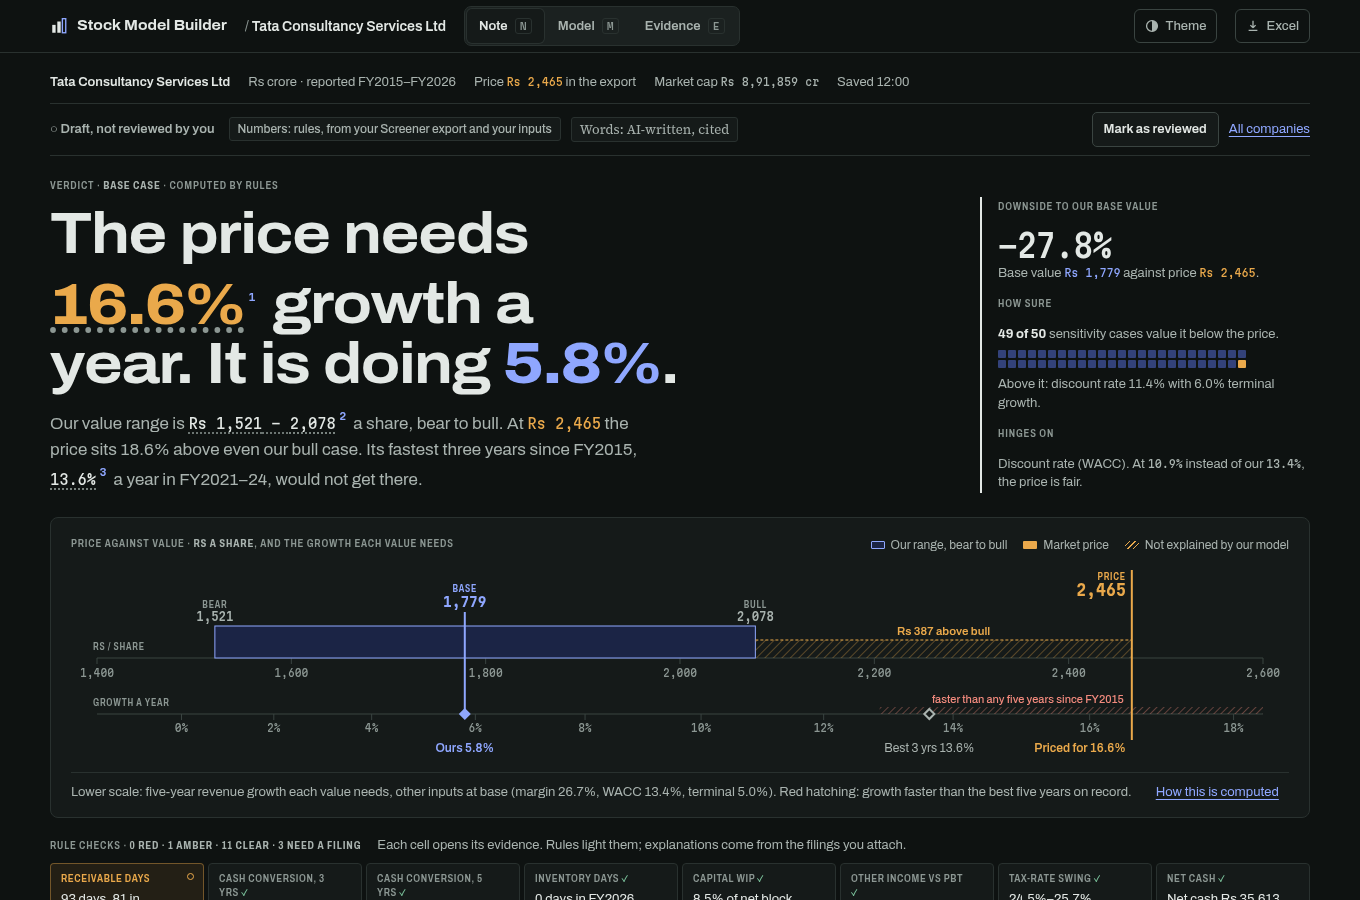
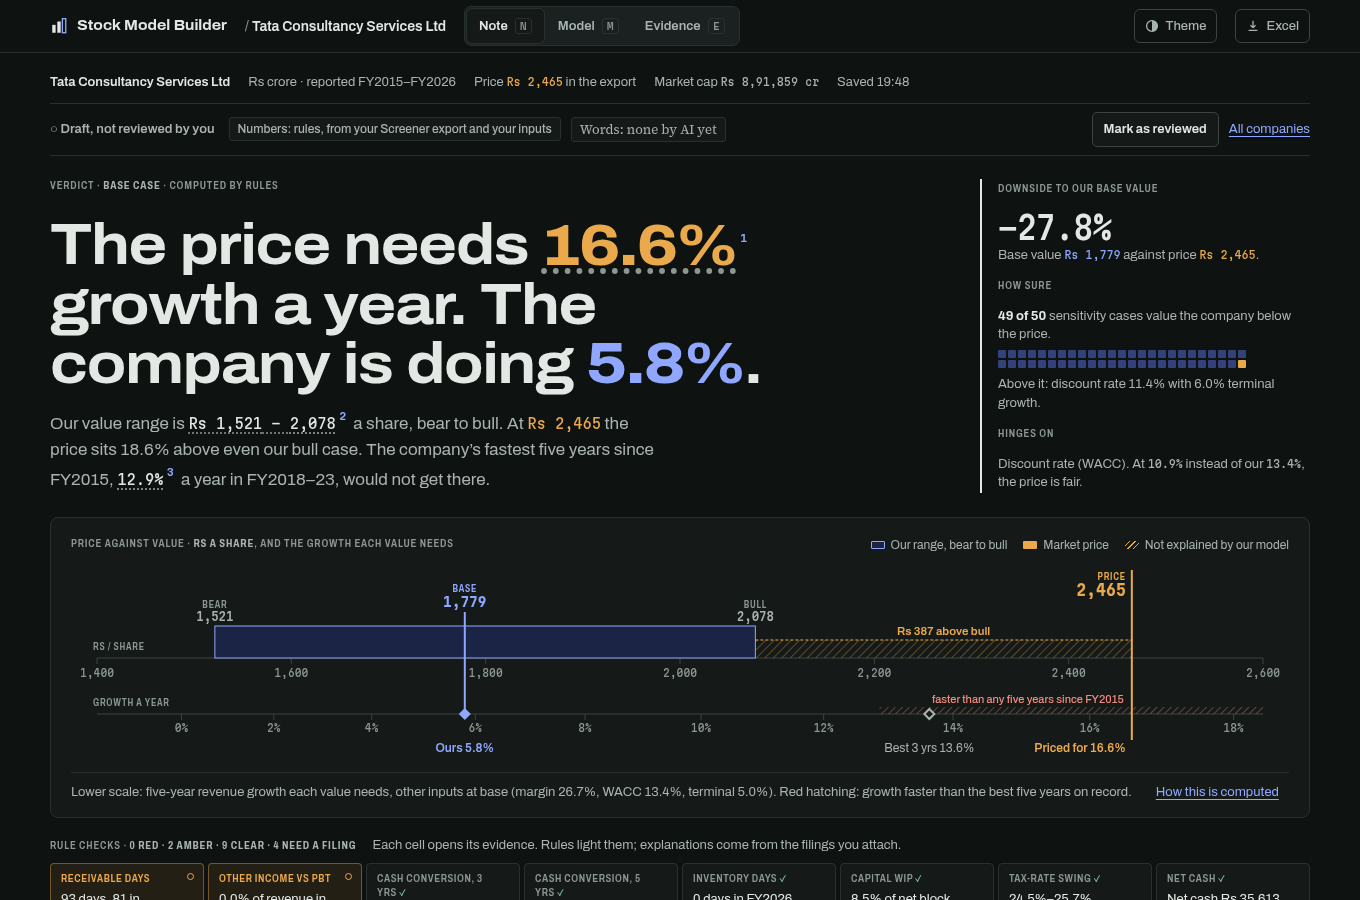
Refresh README screenshots and export label

diff --git a/web/src/App.tsx b/web/src/App.tsx
@@ -469,9 +469,9 @@ function Workspace({ parsed, doc, setDoc: setDocRaw, setDefaults, setParsed, onC
           </nav>
           <span className="spacer" />
           <ThemeButton />
-          <button type="button" className="tbtn" onClick={exportXlsx} disabled={!proj || exporting}>
+          <button type="button" className="tbtn" onClick={exportXlsx} disabled={!proj || exporting} aria-label={exporting ? 'Exporting to Excel' : 'Export to Excel'}>
             <svg viewBox="0 0 16 16" aria-hidden="true"><path d="M8 2v8m0 0L5 7m3 3 3-3M3 13h10" fill="none" stroke="currentColor" strokeWidth="1.5" /></svg>
-            <span className="t-l">{exporting ? 'Exporting…' : 'Excel'}</span><span className="sr">{exporting ? '' : ' export'}</span>
+            <span className="t-l">{exporting ? 'Exporting…' : 'Excel'}</span>
           </button>
         </div>
       </header>

diff --git a/README.md b/README.md
@@ -34,7 +34,7 @@ Numbers come from fixed rules. Words come from an AI command you choose, and eve
 - **AI-proposed mappings for leftover tags (optional):** with `LLM_CMD` set to any command that reads a prompt on stdin and prints the reply (no SDK, any provider), "Propose mappings" asks the model which statement line each unknown tag is. Rules then check every answer (the line exists, the unit is right, the line isn't already filled, the sign and size are plausible, totals such as expenses and total income still tie within 1%), and you approve or reject each one. An approved mapping is saved to `mappings.json` in the model library and the filing is re-read by rules; from then on every filing applies it with no AI call. Projecting and exporting never call the model. Without `LLM_CMD` the button is off and everything else works.
 - **Explain unusual years (optional, words only):** each flagged year has an Explain action. Attach that year's annual-report PDF and rules pick the few pages that mention exceptional or one-time items, the flagged line and the year (text read with the system `pdftotext`); the model answers in at most two sentences with a page and a quote, and the explanation is rejected unless that quote really occurs on that page. Without a report it can explain from the numbers only, labelled as such. Approving pins the note next to the flag, marked as AI-written; no number uses it.
 - **Annual-report notes (optional):** attach a year's annual-report PDF under Sources & proposals. For segment revenue, debt maturity, capex, contingent liabilities, related-party transactions, exceptional items, promoter pledge and the auditor's report, rules pick the most likely pages per topic (three; the auditor gets a slot for its signature page), and the app shows the pages and the exact prompt size before anything is sent. The model returns each figure with its page and a quote; rules check that every quote occurs on its page and contains its number, convert the unit (lakh, million...) to Rs crore (pledge is a percentage from 0 to 100, a quoted "nil" counting as 0; the auditor's report is words only: the firm, the opinion and whether the auditor changed, each checked against a quote on its page; exceptional items are words and citations for the note, never fed to the engine), and tie the sums to the statements (segments to revenue within 2%, maturity buckets to borrowings within 5%, capex to the XBRL cash flow when attached). A note that fails is kept as rejected. Approved notes are drawn as a segment mix, a maturity ladder, contingent liabilities against net worth and a related-party table; an approved capex figure becomes that year's capex in the history behind the default.
-- **Research note (home screen):** the verdict in one sentence ("The price needs 16.6% growth a year. TCS is doing 5.8%."), downside or upside to our base value, how many of the 50 sensitivity cases sit below the price, and the input the value hinges on with its break-even. A two-scale ruler puts the price against the bear–bull range and the growth each value needs. Then the rule-check strip, the tornado of what moves value, break-evens, key numbers, the value bridge and what would close or widen the gap. Every number has a footnote with its source. Model and Evidence tabs hold the tables, documents and checks (N / M / E keys).
+- **Research note (home screen):** the verdict in one sentence ("The price needs 16.6% growth a year. The company is doing 5.8%."), downside or upside to our base value, how many of the 50 sensitivity cases sit below the price, and the input the value hinges on with its break-even. A two-scale ruler puts the price against the bear–bull range and the growth each value needs. Then the rule-check strip, the tornado of what moves value, break-evens, key numbers, the value bridge and what would close or widen the gap. Every number has a footnote with its source. Model and Evidence tabs hold the tables, documents and checks (N / M / E keys).
 - **Forensic radar:** 15 rules for cash conversion, receivable and inventory days, capital WIP, other income, tax swings, debt and interest cover, working capital, a Beneish-style M-score, and (from approved annual-report notes) contingent liabilities, related parties, promoter pledge and the auditor. Each lit flag can be explained from the annual report with a checked quote.
 - **Drafted assumptions:** attach annual reports, earnings-call transcripts or investor presentations, and the AI command proposes bear, base and bull for every driver with a page and a quote. Rules check the quote, the bounds, the company's own 10-year history (a value outside it needs a quote that prints that figure; a quote with no number gets a "size not in the source" note), the order of the cases and the cash consequences; you accept, edit or reject each one.
 - **Thesis writer:** "Write the note" sends the AI command only the numbers on the note (verdict, what moves value, break-evens, key numbers, lit flags, inputs and their sources) and the quotes you approved, never whole pages. It writes a headline, three thesis points, what is priced in, risks, bull and bear triggers and what to watch. Rules reject it unless every number is one the app computed or one in a cited quote, every reference exists, every quote is on its page (a quote from a report whose text is gone only if it was approved), nothing says buy, sell, target price or recommend, nothing says never, always or ever (the history starts at the export's first year), and each part fits its length; a failure is retried once with the reasons, then shown. The saved note is marked AI-written; when an input changes it is marked "written for earlier inputs", and it is only rewritten when you ask.
